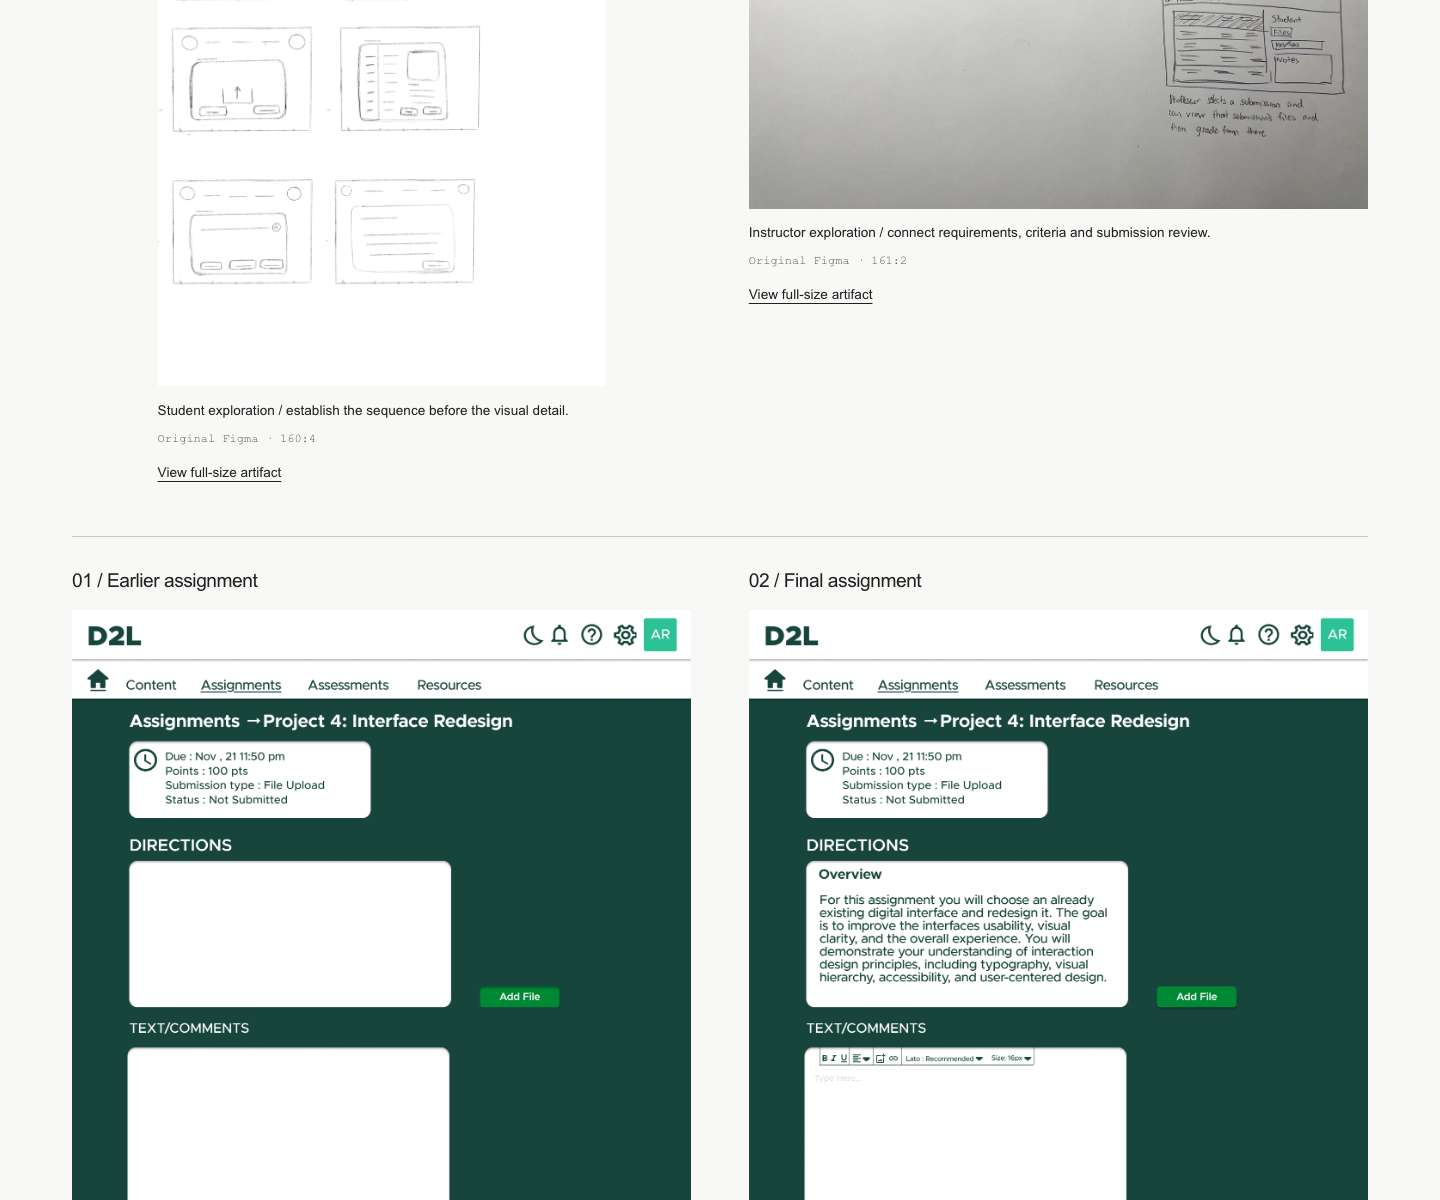
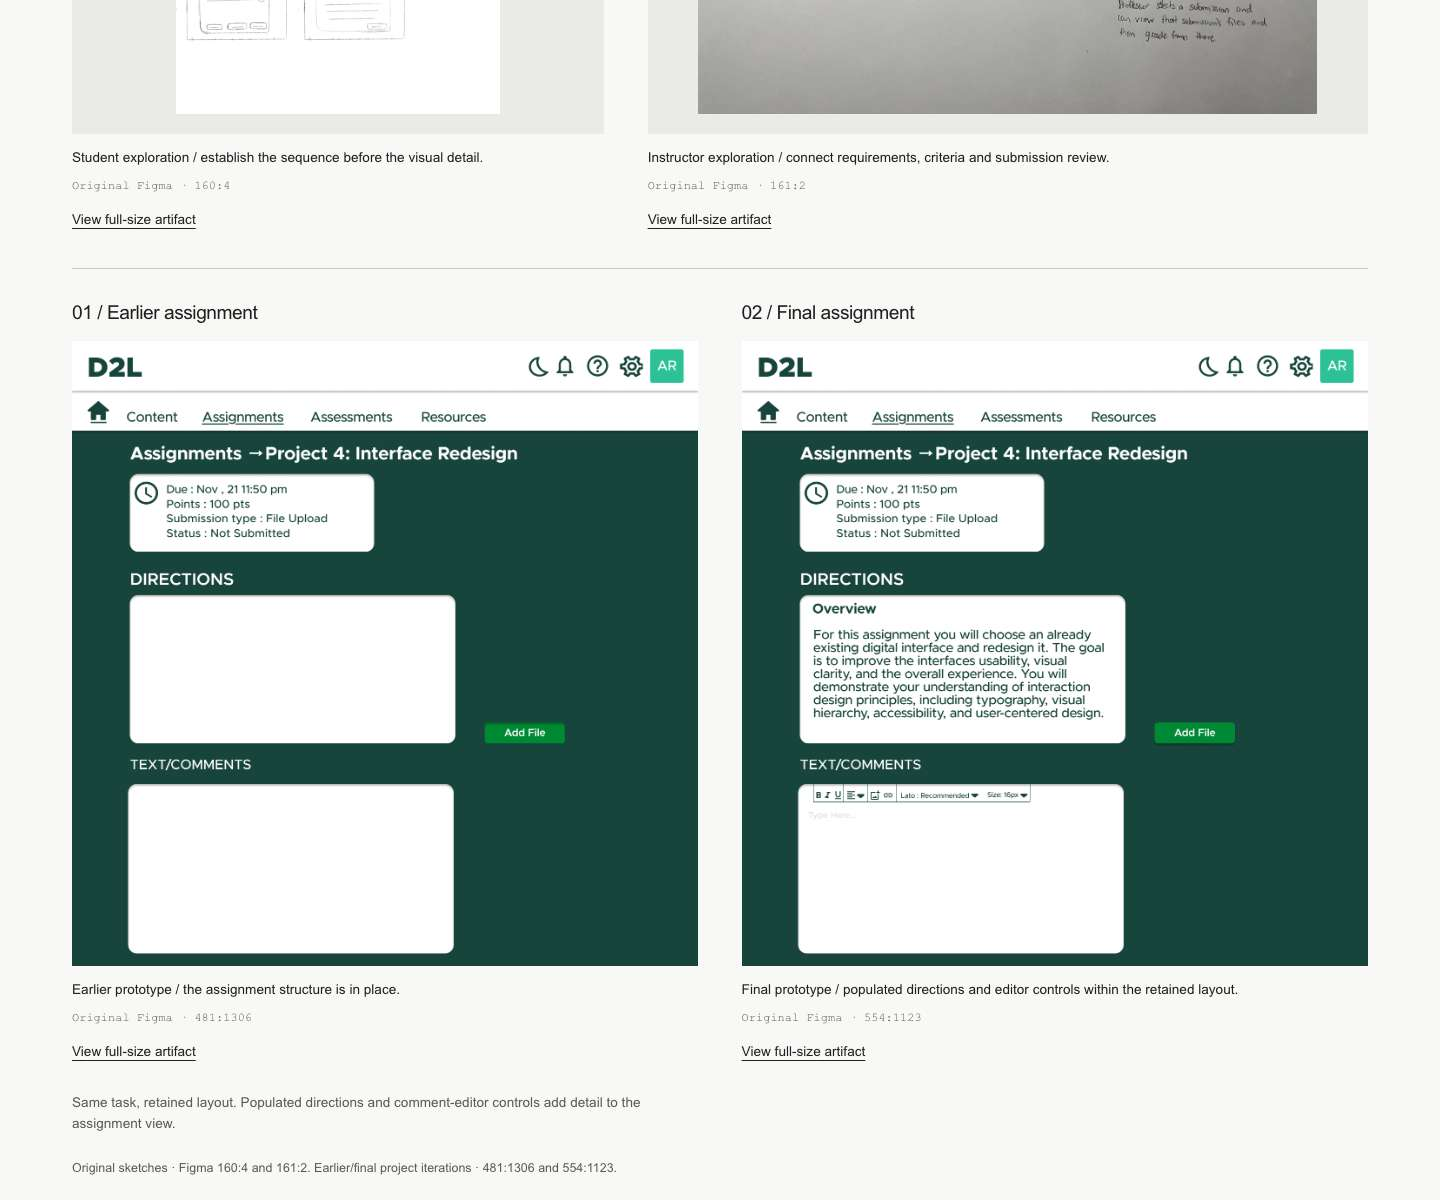
Refine D2L student journey and consolidate reflection

diff --git a/src/styles/d2l.css b/src/styles/d2l.css
@@ -9,28 +9,33 @@
 .d2l-case .artifact-source { overflow-wrap: anywhere; }
 .d2l-status { max-width: 85ch; font-size: .85rem; color: var(--muted); margin-top: 1.5rem; }
 .d2l-case .chapter-evaluation, .d2l-case .chapter-workflows, .d2l-case .chapter-exploration, .d2l-case .chapter-experience, .d2l-case .chapter-reflection { grid-template-columns: 1fr; gap: 2rem; }
+.d2l-case .process-section { padding-block: 2.5rem 3rem; }
 .d2l-case .process-heading h2 { max-width: 29ch; }
 .d2l-findings { display: grid; grid-template-columns: repeat(3, minmax(0, 1fr)); gap: 2.5rem; margin-top: 2.5rem; }
 .d2l-findings article { min-width: 0; border-top: 1px solid var(--ink); padding-top: 1.25rem; }
 .d2l-findings h3 { font: 1.5rem/1.25 Georgia, 'Times New Roman', serif; letter-spacing: -.025em; margin-block: 1rem; }
 .d2l-findings p:not(.micro):not(.source-note) { font-size: .95rem; }
 .d2l-response { margin-top: 1rem; }
-.d2l-flow-grid, .d2l-iteration, .d2l-sketch-grid { display: grid; grid-template-columns: repeat(2, minmax(0, 1fr)); gap: clamp(1.5rem, 4vw, 4rem); margin-top: 2.5rem; }
+.d2l-flow-grid, .d2l-iteration, .d2l-sketch-grid { display: grid; grid-template-columns: repeat(2, minmax(0, 1fr)); gap: clamp(1.5rem, 3vw, 3rem); margin-top: 2rem; }
 .d2l-case h3 { line-height: 1.3; }
 .d2l-flow-grid h3, .d2l-iteration h3, .d2l-student-sequence h3 { font-size: 1.2rem; letter-spacing: -.025em; margin-bottom: 1rem; }
 .d2l-transcript { max-width: 65ch; font-size: .9rem; margin-bottom: 1.5rem; }
-.d2l-sketch-grid { align-items: start; }
-.d2l-sketch-grid .artifact-figure:first-child { max-width: 28rem; justify-self: center; }
-.d2l-iteration { border-top: 1px solid var(--rule); padding-top: 2rem; margin-top: 3rem; }
+.d2l-sketch-grid { align-items: start; grid-template-columns: .85fr 1.15fr; }
+.d2l-sketch-grid .artifact-mat { display: grid; place-items: center; min-height: 31rem; padding: 1.25rem; background: var(--artifact-mat); }
+.d2l-sketch-grid .artifact-mat img { width: auto; max-width: 100%; max-height: 29rem; height: auto; }
+.d2l-iteration { border-top: 1px solid var(--rule); padding-top: 2rem; margin-top: 2rem; }
 .d2l-comparison-note { font-size: .85rem; color: var(--muted); margin-top: 1.5rem; max-width: 80ch; }
-.d2l-student-sequence { display: grid; grid-template-columns: 1.2fr 1fr; align-items: start; gap: clamp(1.5rem, 4vw, 4rem); margin-top: 2.5rem; }
+.d2l-sequence-note { max-width: 75ch; font-size: .9rem; color: var(--muted); margin-top: 1rem; }
+.d2l-student-sequence { display: grid; grid-template-columns: repeat(2, minmax(0, 1fr)); align-items: start; gap: 2rem 3rem; margin: 2rem 0 0; padding: 0; list-style: none; }
+.d2l-student-sequence > li { min-width: 0; }
+.d2l-student-sequence > li:first-child { grid-column: 1 / -1; display: grid; grid-template-columns: .65fr 1fr; align-items: start; gap: 3rem; }
+.d2l-step-copy { max-width: 60ch; margin-bottom: 1.25rem; }
+.d2l-step-copy .micro { margin-bottom: .75rem; color: var(--muted); }
+.d2l-step-copy p:not(.micro) { font-size: .95rem; }
+.d2l-student-sequence > li:first-child .d2l-step-copy { padding-top: 1rem; }
 .d2l-instructor { display: grid; grid-template-columns: 1fr 1.7fr; gap: 3rem; align-items: start; border-top: 1px solid var(--rule); margin-top: 3rem; padding-top: 2.5rem; }
 .d2l-instructor h3 { font-size: clamp(1.5rem, 2.5vw, 2rem); letter-spacing: -.035em; margin-block: 1rem; }
 .d2l-instructor p:not(.micro):not(.source-note) { font-size: .95rem; }
-.d2l-limits { background: var(--artifact-mat); padding: clamp(1.25rem, 3vw, 2.5rem); margin-top: 3rem; }
-.d2l-limits h3 { font-size: 1.5rem; letter-spacing: -.025em; margin-top: 1rem; }
-.d2l-limits ul { padding-left: 1.25rem; max-width: 90ch; margin-bottom: 0; }
-.d2l-limits li + li { margin-top: .75rem; }
 .d2l-case .next-priorities { margin-top: 2.5rem; }
 .d2l-case .chapter-reflection .process-copy > p:first-child { font-size: clamp(1.35rem, 2.3vw, 2rem); }
 @media (max-width: 60rem) {
@@ -38,10 +43,16 @@
   .d2l-desktop-pair > div:last-child { margin-top: 1rem; }
   .d2l-findings { grid-template-columns: 1fr; gap: 2rem; }
   .d2l-instructor { grid-template-columns: 1fr; gap: 2rem; }
+  .d2l-student-sequence > li:first-child { grid-template-columns: 1fr; gap: 1rem; }
+  .d2l-sketch-grid .artifact-mat { min-height: 0; }
 }
 @media (max-width: 40rem) {
   .d2l-flow-grid, .d2l-iteration, .d2l-sketch-grid, .d2l-student-sequence { grid-template-columns: 1fr; gap: 2.5rem; }
-  .d2l-sketch-grid .artifact-figure:first-child { max-width: 100%; }
+  .d2l-case .process-section { padding-block: 2rem 2.25rem; }
+  .d2l-sketch-grid .artifact-mat { padding: .75rem; }
+  .d2l-sketch-grid .artifact-mat img { max-height: none; }
+  .d2l-student-sequence > li:first-child { grid-column: auto; }
+  .d2l-student-sequence > li:first-child .d2l-step-copy { padding-top: 0; }
   .d2l-desktop-pair { padding: 1rem; }
   .d2l-case .case-hero h1 { font-size: clamp(2.6rem, 12vw, 4rem); }
   .d2l-case .case-toc a { max-width: 100%; }

diff --git a/tests/browser/d2l.spec.ts b/tests/browser/d2l.spec.ts
@@ -13,18 +13,22 @@ test('D2L is reachable from selected work with confirmed shared attribution and 
   await expect(page.locator('.project-metadata')).toContainText('shared team work');
   await expect(page.locator('.d2l-status')).toContainText('not an official D2L release');
   await expect(page.locator('.d2l-status')).toContainText('usability testing and measurable improvements are not established');
-  await expect(page.locator('.d2l-limits')).toContainText('replacing a file after submission is not established');
+  await expect(page.locator('#reflection')).toContainText('replacement after submission remains unresolved');
+  await expect(page.locator('.d2l-student-sequence > li .micro')).toHaveText(['01 / Find Assignment', '02 / Review Selected File', '03 / Check Submission Record']);
+  await expect(page.locator('.d2l-sequence-note')).toContainText('not a verified, fully connected prototype');
+  await expect(page.locator('.d2l-limits')).toHaveCount(0);
   await expect(page.locator('meta[name="robots"]')).toHaveAttribute('content', 'noindex, nofollow');
   await expect(page.getByRole('navigation', { name: 'Case study sections' }).getByRole('link')).toHaveText(chapters);
 });
 
 test('D2L originals load at native proportions and every local destination resolves', async ({ page, request }) => {
   await page.goto(path);
-  await expect(page.locator('main img')).toHaveCount(11);
+  await expect(page.locator('main img')).toHaveCount(12);
   for (const image of await page.locator('main img').all()) {
     await image.scrollIntoViewIfNeeded();
     await expect(image).toHaveJSProperty('complete', true);
     expect((await image.getAttribute('alt'))!.length).toBeGreaterThan(40);
+    expect(await image.evaluate((node: HTMLImageElement) => { const rect = node.getBoundingClientRect(); return rect.width >= 100 && rect.height >= 100; })).toBe(true);
     expect(await image.evaluate((node: HTMLImageElement) => node.naturalWidth > 0 && Math.abs(node.clientWidth / node.clientHeight - node.naturalWidth / node.naturalHeight) < .02)).toBe(true);
     const response = await request.get((await image.getAttribute('src'))!);
     expect(response.status()).toBe(200);
@@ -55,6 +59,8 @@ test('D2L responsive compositions and full-page review captures', async ({ page 
     await page.evaluate(() => scrollTo(0, 0));
     if (width !== 768) {
       await page.screenshot({ path: `test-results/d2l-full-${width}.png`, fullPage: true });
+      await page.locator('.d2l-student-sequence').screenshot({ path: `test-results/d2l-journey-${width}.jpg`, quality: 70 });
+      await page.locator('.d2l-sketch-grid').screenshot({ path: `test-results/d2l-sketches-${width}.jpg`, quality: 70 });
       await page.locator('.case-intro').screenshot({ path: `test-results/d2l-hero-${width}.jpg`, quality: 70 });
       const height = await page.evaluate(() => document.documentElement.scrollHeight);
       const stripHeight = width === 1440 ? 1200 : 2000;

diff --git a/src/content/projects/d2l.md b/src/content/projects/d2l.md
@@ -63,15 +63,15 @@ caseStudy:
       title: Three questions to guide the redesign.
       paragraphs:
         - Our heuristic evaluation recorded concerns about navigation and information hierarchy, control over submitted files, and the structure of assignment and rubric creation.
-        - These evaluator observations gave us concrete questions to explore. The proposed screens show design responses; they do not establish that each problem was solved.
-      sourceNote: Original evaluator notes · Figma 16:2, 19:10, 18:2, and 9:6. These concern the class-project baseline, not an audit of today's D2L.
+        - These observations gave us concrete questions about context, file review, and grading criteria to explore.
+      sourceNote: Team heuristic evaluation of the class-project baseline · Figma 16:2, 19:10, 18:2, and 9:6.
     - id: workflows
       kicker: 03 / Mapping Student & Instructor Workflows
       title: Follow the work from intent to next step.
       paragraphs:
         - For students, we mapped the journey from selecting a course to reviewing a chosen file and receiving submission confirmation. File selection, review, and submission appear as separate states.
         - The instructor flow connects assignment details, grading criteria, and supporting files with publishing, grading, and feedback. Looking at both journeys kept the work focused on coursework as a shared process.
-      sourceNote: Original team diagrams · Figma 123:4 and 123:3. They describe intended paths; error and recovery branches need further exploration.
+      sourceNote: Original team task maps · Figma 123:4 and 123:3.
       media: [flow]
     - id: exploration
       kicker: 04 / Exploring Design Solutions
@@ -79,22 +79,21 @@ caseStudy:
       paragraphs:
         - Early sketches established course, assignment, and upload layouts before the visual direction was resolved. Later designs used a green-and-white palette, repeated navigation labels, and grouped content areas.
         - Some iterations changed the information within screens more than their arrangement. The final assignment view retained the earlier structure while adding populated directions and comment-editor controls. The comparison below shows that specific progression.
-      sourceNote: Original sketch nodes 160:4 and 161:2; earlier assignment 481:1306 and final assignment 554:1123. These are project iterations, not production D2L before-and-after screenshots.
+      sourceNote: Original sketches · Figma 160:4 and 161:2. Earlier/final project iterations · 481:1306 and 554:1123.
       media: [sketch, comparison]
     - id: experience
       kicker: 05 / The Redesigned Experience
       title: Make the chosen file and the next action visible.
       paragraphs:
-        - The student concept keeps assignment context visible through a named heading and a summary of due date, points, submission type, and status. A file-selection sequence leads to review with the chosen filename, a removal control, and Submit. A separate history view explores how completion could be recorded.
-        - For instructors, the proposal separates assignment overview from grading and submission settings. The rubric maker labels criteria, headers, and score, with template and draft actions.
-      sourceNote: Student review/history · Figma 554:1377 and 554:1169. Instructor overview/settings/rubric · 274:414, 274:488, and 286:415. Dates, files, grades, and course content are illustrative prototype material.
+        - The student journey centers on three questions — what do I need to submit, which file have I chosen, and where can I check the record? The proposed screens bring those decisions into view.
+      sourceNote: Student assignment/review/history · Figma 554:1123, 554:1377, and 554:1169. Instructor overview/settings/rubric · 274:414, 274:488, and 286:415.
       media: [screens]
     - id: reflection
       kicker: 06 / Reflection & Next Steps
       title: A clearer proposal. Questions still worth testing.
       paragraphs:
         - The project connects evaluation of an existing product with the decisions needed to find, submit, and manage coursework. Its strongest thread is the relationship between those tasks and the interface states the team explored.
-        - Future evaluation should examine whether people understand the navigation, can recover from choosing the wrong file, and can distinguish saving, submitting, and publishing. These are proposed next steps, not completed testing or measured improvements.
-      sourceNote: Project-level reflection and proposed evaluation, grounded in the source analysis. No official release, usability-test result, or business outcome is claimed.
+        - Three limitations guide the next evaluation — submission recovery, status consistency, and incomplete prototype connections. These proposed next steps would examine the student journey and instructor setup, including access needs.
+      sourceNote: Project-level reflection and proposed evaluation, grounded in the original artifacts.
 ---
 An original four-person MSU redesign concept. Review the case study for source-backed design decisions, authentic team artifacts, and documented prototype limitations. Third-party asset rights and some project details remain under review.

diff --git a/docs/d2l/IMPLEMENTATION.md b/docs/d2l/IMPLEMENTATION.md
@@ -58,3 +58,13 @@ Consecutive screenshot strips accommodate connector upload size; single PNGs are
 - Third-party image/icon/institutional/workbook permissions before public launch; Figma visitor-sharing access.
 - Manual screen-reader, Safari/Firefox, physical-device and performance audits remain pending.
 - PR remains stacked on planning PR #4 and the earlier portfolio branches. Retarget/recheck only when upstream changes are authorized. No merge or deployment is authorized.
+
+## Final editorial refinement — 2026-10-16
+
+Focused changes preserve the approved hero, six chapters, typography/navigation/design tokens, original Figma colors, and shared credits. Student presentation now follows a labeled ordered sequence: Find Assignment → Review Selected File → Check Submission Record, using the existing assignment, file-review, and history assets. A short note identifies these as proposed interface states, not a verified connected prototype. The instructor transition relates requirements and grading criteria to what students submit; the rubric visual stays intact.
+
+Removed the standalone technical-defects panel, consolidated the three primary limitations in reflection, and trimmed repeated outcome/validation disclaimers while retaining the clear opening status. Full technical observations and the owner's explicit Alana/team confirmation are preserved in ANALYSIS.md. D2L-only chapter spacing is tighter, with a prominent first student state and consistent neutral sketch mats. Sketches remain uncropped and unmodified, preserving meaningful content, proportions, and full-size links. Native fine detail may require those links on narrow screens; prose and descriptions provide the narrative independently.
+
+Executed after final source changes: `pnpm run check` (0 errors/warnings/hints), `pnpm run build` (four static routes), `pnpm run test:content` (8 passed), and `pnpm test` (20 passed). Axe found no violations in tested D2L light/dark at 320/390/768/1440px. Keyboard/focus/anchors, local links, alt descriptions, all 12 rendered images loading at native proportions (11 unchanged source files), no overflow, no-JavaScript and reduced-motion checks passed. Desktop/mobile/small-mobile screenshots were refreshed, including student-sequence and sketch-framing inspection. Community Spaces full-page captures remain pixel-identical to the original 1440px and 390px baselines; its source and assets are unchanged. No original D2L asset files changed. Diff-whitespace checks passed.
+
+Outstanding manual screen-reader, Safari/Firefox, physical-device, performance, course/date/evaluation evidence, and third-party launch-rights items remain as documented above. No public deployment or merge. Continue in draft PR #5.

diff --git a/docs/d2l/ANALYSIS.md b/docs/d2l/ANALYSIS.md
@@ -139,3 +139,11 @@ All 63 distinct node references in this analysis and all 24 in the proposal were
 ### Attribution update — 2026-10-16
 
 The owner subsequently confirmed Alana Alexander alongside Suleyman Koncagul, Gabe Bustillo, and Benji Fajardo. Complete shared team attribution is resolved; the uncertainty in the original analysis above is historical. Course/term and completed evaluation remain unconfirmed. Original observations and prototype limitations remain unchanged.
+
+## Editorial refinement record — 2026-10-16
+
+The owner approved the complete desktop direction and requested presentation/editorial refinement. The portfolio now labels three authentic proposed student states: Find Assignment (554:1123), Review Selected File (554:1377), and Check Submission Record (554:1169). These are narrative task order, not a verified fully connected prototype. The assignment frame shows a located assignment with requirements; it is not a new search/list screen.
+
+The large defects panel was removed from the main narrative. Reflection retains submission recovery (pre-submit removal versus unestablished post-submit replacement), status consistency (Not Submitted beneath confirmation), and incomplete prototype connections (missing onward assignment link and separate history path). **The full original technical findings above remain retained**, including empty-file Submit, inconsistent dates/points, the student New Announcement control, unverified role boundaries, file validation/errors, accessibility behavior, and lack of operating upload/email/publication services.
+
+Attribution verification basis: the assistant explicitly asked whether credits should list Suleyman Koncagul, Gabe Bustillo, Benji Fajardo, and Alana Alexander; the owner answered **“Yes, credit all four.”** This is direct owner confirmation consistent with Alana-labeled source artifacts, not independent university verification. Shared contribution is retained, with no individual leadership inferred. Course/term and completed evaluation remain unconfirmed.

diff --git a/docs/previews/d2l/desktop.md b/docs/previews/d2l/desktop.md
@@ -1,21 +1,21 @@
-# D2L Redesign — full-page review at 1440px
+# D2L Redesign — editorial refinement, 1440px
 
-Consecutive browser-capture strips cover the complete page. These document the portfolio implementation, not research or prototype usability results.
+Consecutive browser captures cover the complete page. Portfolio review screenshots, not project research evidence.
 
-![1440px full-page part 1](d2l-1440-part-01.jpg)
+![1440px capture 1](d2l-1440-part-01.jpg)
 
-![1440px full-page part 2](d2l-1440-part-02.jpg)
+![1440px capture 2](d2l-1440-part-02.jpg)
 
-![1440px full-page part 3](d2l-1440-part-03.jpg)
+![1440px capture 3](d2l-1440-part-03.jpg)
 
-![1440px full-page part 4](d2l-1440-part-04.jpg)
+![1440px capture 4](d2l-1440-part-04.jpg)
 
-![1440px full-page part 5](d2l-1440-part-05.jpg)
+![1440px capture 5](d2l-1440-part-05.jpg)
 
-![1440px full-page part 6](d2l-1440-part-06.jpg)
+![1440px capture 6](d2l-1440-part-06.jpg)
 
-![1440px full-page part 7](d2l-1440-part-07.jpg)
+![1440px capture 7](d2l-1440-part-07.jpg)
 
-![1440px full-page part 8](d2l-1440-part-08.jpg)
+![1440px capture 8](d2l-1440-part-08.jpg)
 
-![1440px full-page part 9](d2l-1440-part-09.jpg)
+![1440px capture 9](d2l-1440-part-09.jpg)

diff --git a/docs/previews/d2l/mobile-320.md b/docs/previews/d2l/mobile-320.md
@@ -1,19 +1,19 @@
-# D2L Redesign — full-page review at 320px
+# D2L Redesign — editorial refinement, 320px
 
-Consecutive browser-capture strips cover the complete page. These document the portfolio implementation, not research or prototype usability results.
+Consecutive browser captures cover the complete page. Portfolio review screenshots, not project research evidence.
 
-![320px full-page part 1](d2l-320-part-01.jpg)
+![320px capture 1](d2l-320-part-01.jpg)
 
-![320px full-page part 2](d2l-320-part-02.jpg)
+![320px capture 2](d2l-320-part-02.jpg)
 
-![320px full-page part 3](d2l-320-part-03.jpg)
+![320px capture 3](d2l-320-part-03.jpg)
 
-![320px full-page part 4](d2l-320-part-04.jpg)
+![320px capture 4](d2l-320-part-04.jpg)
 
-![320px full-page part 5](d2l-320-part-05.jpg)
+![320px capture 5](d2l-320-part-05.jpg)
 
-![320px full-page part 6](d2l-320-part-06.jpg)
+![320px capture 6](d2l-320-part-06.jpg)
 
-![320px full-page part 7](d2l-320-part-07.jpg)
+![320px capture 7](d2l-320-part-07.jpg)
 
-![320px full-page part 8](d2l-320-part-08.jpg)
+![320px capture 8](d2l-320-part-08.jpg)

diff --git a/docs/previews/d2l/mobile.md b/docs/previews/d2l/mobile.md
@@ -1,19 +1,19 @@
-# D2L Redesign — full-page review at 390px
+# D2L Redesign — editorial refinement, 390px
 
-Consecutive browser-capture strips cover the complete page. These document the portfolio implementation, not research or prototype usability results.
+Consecutive browser captures cover the complete page. Portfolio review screenshots, not project research evidence.
 
-![390px full-page part 1](d2l-390-part-01.jpg)
+![390px capture 1](d2l-390-part-01.jpg)
 
-![390px full-page part 2](d2l-390-part-02.jpg)
+![390px capture 2](d2l-390-part-02.jpg)
 
-![390px full-page part 3](d2l-390-part-03.jpg)
+![390px capture 3](d2l-390-part-03.jpg)
 
-![390px full-page part 4](d2l-390-part-04.jpg)
+![390px capture 4](d2l-390-part-04.jpg)
 
-![390px full-page part 5](d2l-390-part-05.jpg)
+![390px capture 5](d2l-390-part-05.jpg)
 
-![390px full-page part 6](d2l-390-part-06.jpg)
+![390px capture 6](d2l-390-part-06.jpg)
 
-![390px full-page part 7](d2l-390-part-07.jpg)
+![390px capture 7](d2l-390-part-07.jpg)
 
-![390px full-page part 8](d2l-390-part-08.jpg)
+![390px capture 8](d2l-390-part-08.jpg)
